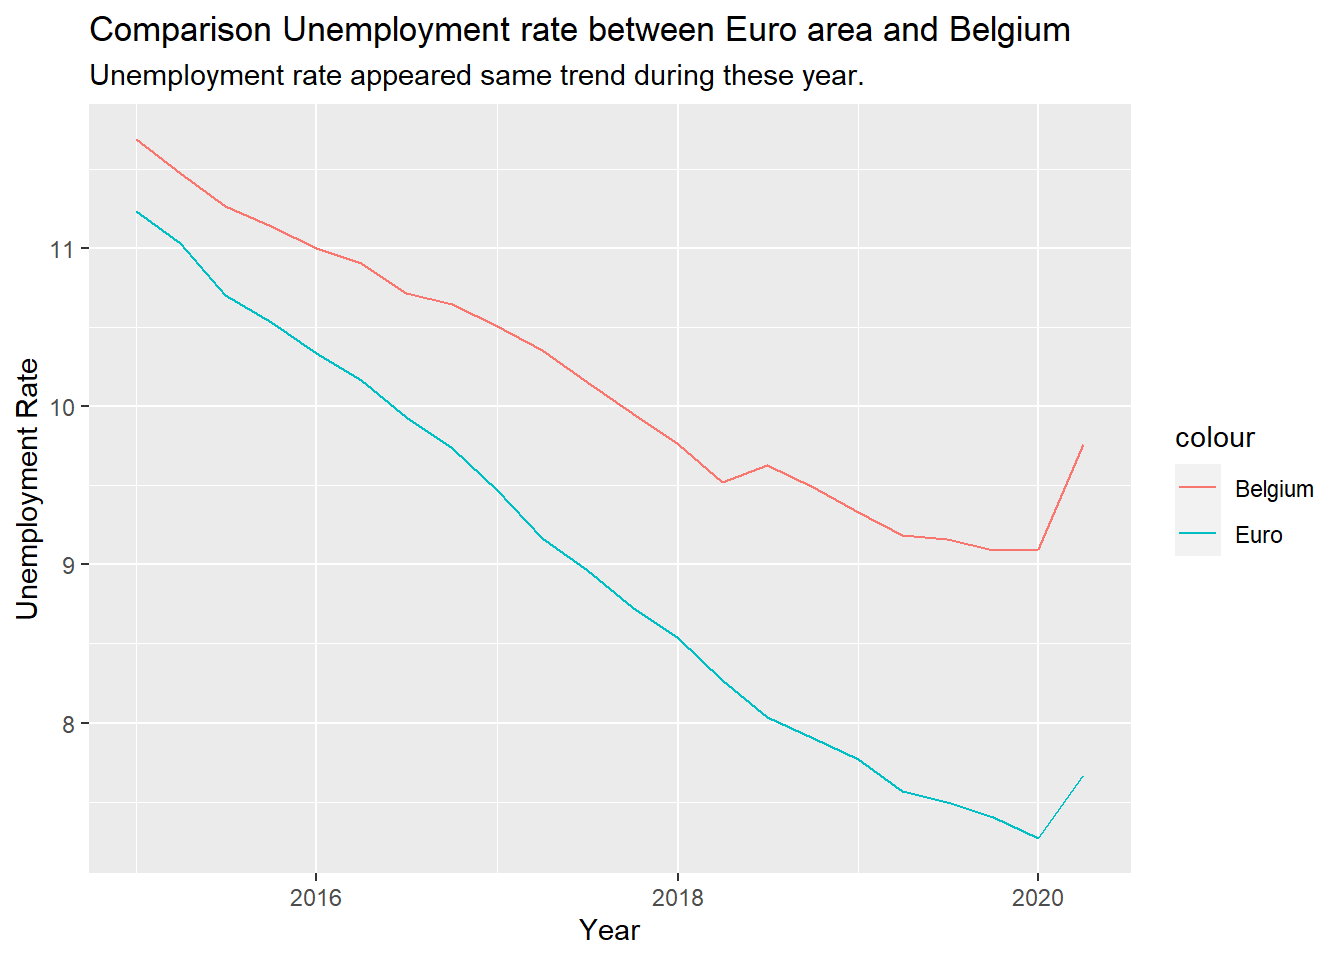
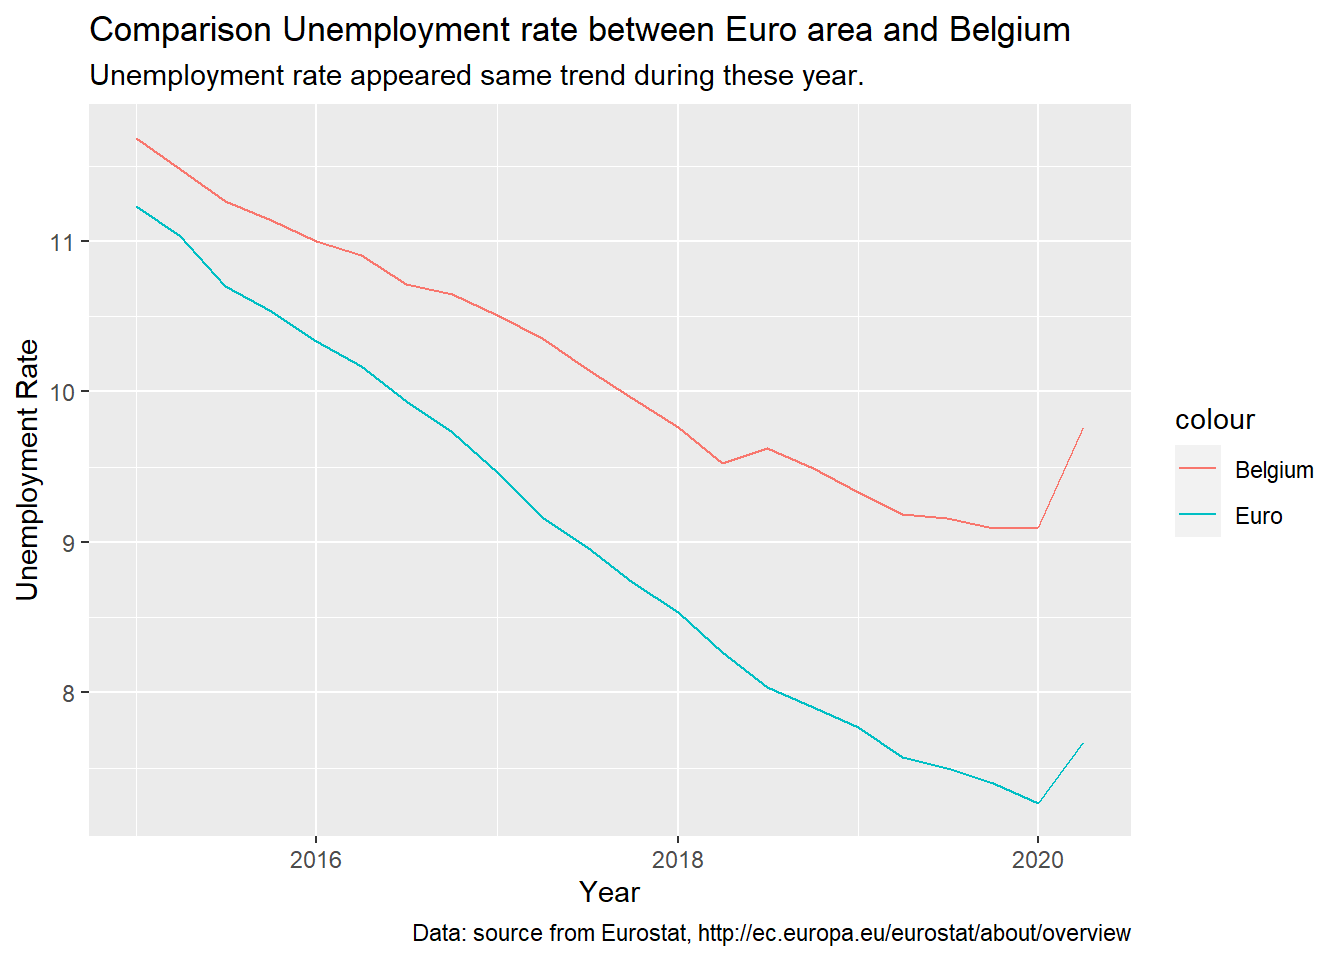
add caption

diff --git a/public/post/blog-2/index.html b/public/post/blog-2/index.html
@@ -30,7 +30,7 @@
   
     
   
-  <meta name="description" content="The blog is a further research about COVID-19 in Belgium. According to Johns Hopkins University Center for System Science and Engineering invention provided latest version of the data, in the first 180 days Belgium reported death number took a small place in the European Union, however, Belgium took the highest death rate in the world which we found the result in the last blog.">
+  <meta name="description" content="The blog is a further research about COVID-19 in Belgium in economic aspect. According to Johns Hopkins University Center for System Science and Engineering invention provided latest version of the data, in the first 180 days Belgium reported death number took a small place in the European Union, however, Belgium took the highest death rate in the world which we found the result in the last blog.">
 
   
   <link rel="alternate" hreflang="en-us" href="/post/blog-2/">
@@ -271,7 +271,7 @@
   <meta property="og:site_name" content="Blog">
   <meta property="og:url" content="/post/blog-2/">
   <meta property="og:title" content="The impact of Covid-19 in Belgium | Blog">
-  <meta property="og:description" content="The blog is a further research about COVID-19 in Belgium. According to Johns Hopkins University Center for System Science and Engineering invention provided latest version of the data, in the first 180 days Belgium reported death number took a small place in the European Union, however, Belgium took the highest death rate in the world which we found the result in the last blog."><meta property="og:image" content="/images/icon_hu0b7a4cb9992c9ac0e91bd28ffd38dd00_9727_512x512_fill_lanczos_center_2.png">
+  <meta property="og:description" content="The blog is a further research about COVID-19 in Belgium in economic aspect. According to Johns Hopkins University Center for System Science and Engineering invention provided latest version of the data, in the first 180 days Belgium reported death number took a small place in the European Union, however, Belgium took the highest death rate in the world which we found the result in the last blog."><meta property="og:image" content="/images/icon_hu0b7a4cb9992c9ac0e91bd28ffd38dd00_9727_512x512_fill_lanczos_center_2.png">
   <meta property="twitter:image" content="/images/icon_hu0b7a4cb9992c9ac0e91bd28ffd38dd00_9727_512x512_fill_lanczos_center_2.png"><meta property="og:locale" content="en-us">
   
     
@@ -321,7 +321,7 @@
       "url": "/images/icon_hu0b7a4cb9992c9ac0e91bd28ffd38dd00_9727_192x192_fill_lanczos_center_2.png"
     }
   },
-  "description": "The blog is a further research about COVID-19 in Belgium. According to Johns Hopkins University Center for System Science and Engineering invention provided latest version of the data, in the first 180 days Belgium reported death number took a small place in the European Union, however, Belgium took the highest death rate in the world which we found the result in the last blog."
+  "description": "The blog is a further research about COVID-19 in Belgium in economic aspect. According to Johns Hopkins University Center for System Science and Engineering invention provided latest version of the data, in the first 180 days Belgium reported death number took a small place in the European Union, however, Belgium took the highest death rate in the world which we found the result in the last blog."
 }
 </script>
 
@@ -778,20 +778,22 @@
       
 
 
-<p>The blog is a further research about COVID-19 in Belgium. According to Johns Hopkins University Center for System Science and Engineering invention provided latest version of the data, in the first 180 days Belgium reported death number took a small place in the European Union, however, Belgium took the highest death rate in the world which we found the result in the last blog. Figure <a href="#fig:merged">1</a> shows reported deaths number in 8 particular European countries in the first 180 days since the epidemic spread out. The graph shows the same trend were increased rapidly in the first 50 days.</p>
+<p>The blog is a further research about COVID-19 in Belgium in economic aspect. According to Johns Hopkins University Center for System Science and Engineering invention provided latest version of the data, in the first 180 days Belgium reported death number took a small place in the European Union, however, Belgium took the highest death rate in the world which we found the result in the last blog. Figure <a href="#fig:merged">1</a> shows reported deaths number in 8 particular European countries in the first 180 days since the epidemic spread out. The graph shows the same trend were increased rapidly in the first 50 days.</p>
 <div class="figure" style="text-align: center"><span id="fig:merged"></span>
-<img src="/post/2020-09-12-blog-2.en_files/figure-html/merged-1.png" alt="Reported deaths number in European Union." width="70%" />
+<img src="/post/2020-09-12-blog-2.en_files/figure-html/merged-1.png" alt="Reported deaths number in European Union." width="80%" />
 <p class="caption">
 Figure 1: Reported deaths number in European Union.
 </p>
 </div>
-<p>Thanks for lockdown policy in many countries that made the outbreak under control, in Figure <a href="#fig:map">2</a> that the latest update in 14th Sep 2020, reported deaths number in European mostly were under 100 cases. In Belgium, it seems that outbreak is under control that keep the number under 10 cases. For further research can have a look at <a href="https://github.com/joachim-gassen/tidycovid19">tidycovid19</a></p>
+<p>Thanks for lockdown policy in many countries that made the outbreak under control, in Figure <a href="#fig:map">2</a> that the latest update in 16th Sep 2020, reported deaths number in European mostly were under 100 cases. In Belgium, it seems that outbreak is under control that keep the number under 10 cases. For further research can have a look at <a href="https://github.com/joachim-gassen/tidycovid19">tidycovid19</a></p>
 <div class="figure" style="text-align: center"><span id="fig:map"></span>
 <img src="/post/2020-09-12-blog-2.en_files/figure-html/map-1.png" alt="Covid19:Reported deaths(new cases per day)" width="85%" />
 <p class="caption">
 Figure 2: Covid19:Reported deaths(new cases per day)
 </p>
 </div>
+<div id="impact-of-gross-domestic-product-in-belgium" class="section level3">
+<h3>Impact of Gross Domestic Product in Belgium</h3>
 <p>As it surveys an economy ravaged by the disease, Figure <a href="#fig:bgraph">3</a> which dataset was downloaded from <a href="https://alfred.stlouisfed.org/series?seid=CLVMNACSCAB1GQBElisted">Real Gross Domestic Product for Belgium</a> shows that Belgium real gross domestic product (GDP) from first quarter of 2005 to first quarter of 2020. There are two apparent fluctuations that one was from 2008 to 2009 which meet economic crisis, another one was from late 2019 to recent which under COVID-19 outbreak. The horizon line can clearly clarify that first quarter of 2020, GDP for Belgium fell to same level of 2019 which just went through an economic crisis.</p>
 <div class="figure" style="text-align: center"><span id="fig:bgraph"></span>
 <img src="/post/2020-09-12-blog-2.en_files/figure-html/bgraph-1.png" alt="Real GDP in Belgium" width="70%" />
@@ -799,13 +801,19 @@ Figure 2: Covid19:Reported deaths(new cases per day)
 Figure 3: Real GDP in Belgium
 </p>
 </div>
+</div>
+<div id="comparison-gdp-between-euro-aera-and-belgium" class="section level3">
+<h3>Comparison GDP between Euro Aera and Belgium</h3>
 <p>For a better understanding what impact that virus bring to, I found 19 countries in European aera of their total GDP resources from <a href="https://alfred.stlouisfed.org/series?seid=CLVMEURNSAB1GQEA19">Gross Domestic Product for Euro area (19 countries)</a>. Figure <a href="#fig:gcompare">4</a> compared to total GDP of 19 countries in European area, Belgium’s GDP have a same moving trend as European countries. However, in the last two quarter that Belgium has wider variations than normal.</p>
 <div class="figure" style="text-align: center"><span id="fig:gcompare"></span>
-<img src="/post/2020-09-12-blog-2.en_files/figure-html/gcompare-1.png" alt="GDP comparison between Belgium and European Union(19 countries)" width="70%" />
+<img src="/post/2020-09-12-blog-2.en_files/figure-html/gcompare-1.png" alt="GDP comparison between Belgium and European Union(19 countries)" width="80%" />
 <p class="caption">
 Figure 4: GDP comparison between Belgium and European Union(19 countries)
 </p>
 </div>
+</div>
+<div id="impact-of-unemployment-rate-in-belgium" class="section level3">
+<h3>Impact of Unemployment Rate in Belgium</h3>
 <p>Meanwhile, Belgium limps back to work after the outbreak, citizens job prospects are truly bleak. It was a period that the workforce as prospective employers mull lay-offs of hiring freezes. For a middle class used to relentlessly strong economic growth, the stock will be great. Figure <a href="#fig:unem">5</a> illustrated unemployment rate from first quarter of 2015 to first quarter of 2020, it seems that there was a tendency to decrease unemployment rate since 2015 before epidemic happened. The latest data showed that unemployment rate in Belgium has obvious rose in first quarter in 2020.</p>
 <div class="figure" style="text-align: center"><span id="fig:unem"></span>
 <img src="/post/2020-09-12-blog-2.en_files/figure-html/unem-1.png" alt="Unemployment Rate in Belgium" width="70%" />
@@ -813,14 +821,18 @@ Figure 4: GDP comparison between Belgium and European Union(19 countries)
 Figure 5: Unemployment Rate in Belgium
 </p>
 </div>
+</div>
+<div id="comparison-unemployment-rate-between-euro-area-and-belgium" class="section level3">
+<h3>Comparison Unemployment Rate between Euro Area and Belgium</h3>
 <p>Comparing unemployment rate around European area, Belgium unemployment rate was higher than average from the past five year but all with a bright future that unemployment rate fell year by year even Figure <a href="#fig:unemcom">6</a> shown the gap between Belgium and average European area was increasingly getting bigger. With an unexpected epidemic that every thing seems changed that both have a same turning point since 2020, the tide of unemployment was coming fast and furious and we don’t know how long will this cold wave last. If you have interest for impact in economy, I would like to recommend you to visit <a href="https://alfred.stlouisfed.org/">Alfred</a> which recorded variance of economy historial data.</p>
 <div class="figure" style="text-align: center"><span id="fig:unemcom"></span>
-<img src="/post/2020-09-12-blog-2.en_files/figure-html/unemcom-1.png" alt="Comparison of Unemployment Rate between Belgium and Euro area" width="70%" />
+<img src="/post/2020-09-12-blog-2.en_files/figure-html/unemcom-1.png" alt="Comparison of Unemployment Rate between Belgium and Euro area" width="80%" />
 <p class="caption">
 Figure 6: Comparison of Unemployment Rate between Belgium and Euro area
 </p>
 </div>
 <p>There is no doubt that virus has hit every country hard and it is a big question that we don’t know how bad will COVID-19 be for the economy around the world. There are so many bad news in 2020 and hopefully we can get COVID-19 vaccine soon and pull through together.</p>
+</div>
 <div id="reference" class="section level1">
 <h1>Reference</h1>
 <p>Kun Ren and Kenton Russell (2019). <strong>formattable</strong>: Create ‘Formattable’ Data Structures.https://renkun.me/formattable,</p>

diff --git a/content/post/2020-09-12-blog-2.en.html b/content/post/2020-09-12-blog-2.en.html
@@ -19,20 +19,22 @@ projects: []
 
 
 
-<p>The blog is a further research about COVID-19 in Belgium. According to Johns Hopkins University Center for System Science and Engineering invention provided latest version of the data, in the first 180 days Belgium reported death number took a small place in the European Union, however, Belgium took the highest death rate in the world which we found the result in the last blog. Figure <a href="#fig:merged">1</a> shows reported deaths number in 8 particular European countries in the first 180 days since the epidemic spread out. The graph shows the same trend were increased rapidly in the first 50 days.</p>
+<p>The blog is a further research about COVID-19 in Belgium in economic aspect. According to Johns Hopkins University Center for System Science and Engineering invention provided latest version of the data, in the first 180 days Belgium reported death number took a small place in the European Union, however, Belgium took the highest death rate in the world which we found the result in the last blog. Figure <a href="#fig:merged">1</a> shows reported deaths number in 8 particular European countries in the first 180 days since the epidemic spread out. The graph shows the same trend were increased rapidly in the first 50 days.</p>
 <div class="figure" style="text-align: center"><span id="fig:merged"></span>
-<img src="/post/2020-09-12-blog-2.en_files/figure-html/merged-1.png" alt="Reported deaths number in European Union." width="70%" />
+<img src="/post/2020-09-12-blog-2.en_files/figure-html/merged-1.png" alt="Reported deaths number in European Union." width="80%" />
 <p class="caption">
 Figure 1: Reported deaths number in European Union.
 </p>
 </div>
-<p>Thanks for lockdown policy in many countries that made the outbreak under control, in Figure <a href="#fig:map">2</a> that the latest update in 14th Sep 2020, reported deaths number in European mostly were under 100 cases. In Belgium, it seems that outbreak is under control that keep the number under 10 cases. For further research can have a look at <a href="https://github.com/joachim-gassen/tidycovid19">tidycovid19</a></p>
+<p>Thanks for lockdown policy in many countries that made the outbreak under control, in Figure <a href="#fig:map">2</a> that the latest update in 16th Sep 2020, reported deaths number in European mostly were under 100 cases. In Belgium, it seems that outbreak is under control that keep the number under 10 cases. For further research can have a look at <a href="https://github.com/joachim-gassen/tidycovid19">tidycovid19</a></p>
 <div class="figure" style="text-align: center"><span id="fig:map"></span>
 <img src="/post/2020-09-12-blog-2.en_files/figure-html/map-1.png" alt="Covid19:Reported deaths(new cases per day)" width="85%" />
 <p class="caption">
 Figure 2: Covid19:Reported deaths(new cases per day)
 </p>
 </div>
+<div id="impact-of-gross-domestic-product-in-belgium" class="section level3">
+<h3>Impact of Gross Domestic Product in Belgium</h3>
 <p>As it surveys an economy ravaged by the disease, Figure <a href="#fig:bgraph">3</a> which dataset was downloaded from <a href="https://alfred.stlouisfed.org/series?seid=CLVMNACSCAB1GQBElisted">Real Gross Domestic Product for Belgium</a> shows that Belgium real gross domestic product (GDP) from first quarter of 2005 to first quarter of 2020. There are two apparent fluctuations that one was from 2008 to 2009 which meet economic crisis, another one was from late 2019 to recent which under COVID-19 outbreak. The horizon line can clearly clarify that first quarter of 2020, GDP for Belgium fell to same level of 2019 which just went through an economic crisis.</p>
 <div class="figure" style="text-align: center"><span id="fig:bgraph"></span>
 <img src="/post/2020-09-12-blog-2.en_files/figure-html/bgraph-1.png" alt="Real GDP in Belgium" width="70%" />
@@ -40,13 +42,19 @@ Figure 2: Covid19:Reported deaths(new cases per day)
 Figure 3: Real GDP in Belgium
 </p>
 </div>
+</div>
+<div id="comparison-gdp-between-euro-aera-and-belgium" class="section level3">
+<h3>Comparison GDP between Euro Aera and Belgium</h3>
 <p>For a better understanding what impact that virus bring to, I found 19 countries in European aera of their total GDP resources from <a href="https://alfred.stlouisfed.org/series?seid=CLVMEURNSAB1GQEA19">Gross Domestic Product for Euro area (19 countries)</a>. Figure <a href="#fig:gcompare">4</a> compared to total GDP of 19 countries in European area, Belgium’s GDP have a same moving trend as European countries. However, in the last two quarter that Belgium has wider variations than normal.</p>
 <div class="figure" style="text-align: center"><span id="fig:gcompare"></span>
-<img src="/post/2020-09-12-blog-2.en_files/figure-html/gcompare-1.png" alt="GDP comparison between Belgium and European Union(19 countries)" width="70%" />
+<img src="/post/2020-09-12-blog-2.en_files/figure-html/gcompare-1.png" alt="GDP comparison between Belgium and European Union(19 countries)" width="80%" />
 <p class="caption">
 Figure 4: GDP comparison between Belgium and European Union(19 countries)
 </p>
 </div>
+</div>
+<div id="impact-of-unemployment-rate-in-belgium" class="section level3">
+<h3>Impact of Unemployment Rate in Belgium</h3>
 <p>Meanwhile, Belgium limps back to work after the outbreak, citizens job prospects are truly bleak. It was a period that the workforce as prospective employers mull lay-offs of hiring freezes. For a middle class used to relentlessly strong economic growth, the stock will be great. Figure <a href="#fig:unem">5</a> illustrated unemployment rate from first quarter of 2015 to first quarter of 2020, it seems that there was a tendency to decrease unemployment rate since 2015 before epidemic happened. The latest data showed that unemployment rate in Belgium has obvious rose in first quarter in 2020.</p>
 <div class="figure" style="text-align: center"><span id="fig:unem"></span>
 <img src="/post/2020-09-12-blog-2.en_files/figure-html/unem-1.png" alt="Unemployment Rate in Belgium" width="70%" />
@@ -54,14 +62,18 @@ Figure 4: GDP comparison between Belgium and European Union(19 countries)
 Figure 5: Unemployment Rate in Belgium
 </p>
 </div>
+</div>
+<div id="comparison-unemployment-rate-between-euro-area-and-belgium" class="section level3">
+<h3>Comparison Unemployment Rate between Euro Area and Belgium</h3>
 <p>Comparing unemployment rate around European area, Belgium unemployment rate was higher than average from the past five year but all with a bright future that unemployment rate fell year by year even Figure <a href="#fig:unemcom">6</a> shown the gap between Belgium and average European area was increasingly getting bigger. With an unexpected epidemic that every thing seems changed that both have a same turning point since 2020, the tide of unemployment was coming fast and furious and we don’t know how long will this cold wave last. If you have interest for impact in economy, I would like to recommend you to visit <a href="https://alfred.stlouisfed.org/">Alfred</a> which recorded variance of economy historial data.</p>
 <div class="figure" style="text-align: center"><span id="fig:unemcom"></span>
-<img src="/post/2020-09-12-blog-2.en_files/figure-html/unemcom-1.png" alt="Comparison of Unemployment Rate between Belgium and Euro area" width="70%" />
+<img src="/post/2020-09-12-blog-2.en_files/figure-html/unemcom-1.png" alt="Comparison of Unemployment Rate between Belgium and Euro area" width="80%" />
 <p class="caption">
 Figure 6: Comparison of Unemployment Rate between Belgium and Euro area
 </p>
 </div>
 <p>There is no doubt that virus has hit every country hard and it is a big question that we don’t know how bad will COVID-19 be for the economy around the world. There are so many bad news in 2020 and hopefully we can get COVID-19 vaccine soon and pull through together.</p>
+</div>
 <div id="reference" class="section level1">
 <h1>Reference</h1>
 <p>Kun Ren and Kenton Russell (2019). <strong>formattable</strong>: Create ‘Formattable’ Data Structures.https://renkun.me/formattable,</p>

diff --git a/public/index.html b/public/index.html
@@ -987,7 +987,7 @@
     
     <a href="/post/blog-2/" class="summary-link">
       <div class="article-style">
-        The blog is a further research about COVID-19 in Belgium. According to Johns Hopkins University Center for System Science and Engineering invention provided latest version of the data, in the first 180 days Belgium reported death number took a small place in the European Union, however, Belgium took the highest death rate in the world which we found the result in the last blog.
+        The blog is a further research about COVID-19 in Belgium in economic aspect. According to Johns Hopkins University Center for System Science and Engineering invention provided latest version of the data, in the first 180 days Belgium reported death number took a small place in the European Union, however, Belgium took the highest death rate in the world which we found the result in the last blog.
       </div>
     </a>
     

diff --git a/public/post/index.html b/public/post/index.html
@@ -705,7 +705,7 @@
     
     <a href="/post/blog-2/" class="summary-link">
       <div class="article-style">
-        The blog is a further research about COVID-19 in Belgium. According to Johns Hopkins University Center for System Science and Engineering invention provided latest version of the data, in the first 180 days Belgium reported death number took a small place in the European Union, however, Belgium took the highest death rate in the world which we found the result in the last blog.
+        The blog is a further research about COVID-19 in Belgium in economic aspect. According to Johns Hopkins University Center for System Science and Engineering invention provided latest version of the data, in the first 180 days Belgium reported death number took a small place in the European Union, however, Belgium took the highest death rate in the world which we found the result in the last blog.
       </div>
     </a>
     
